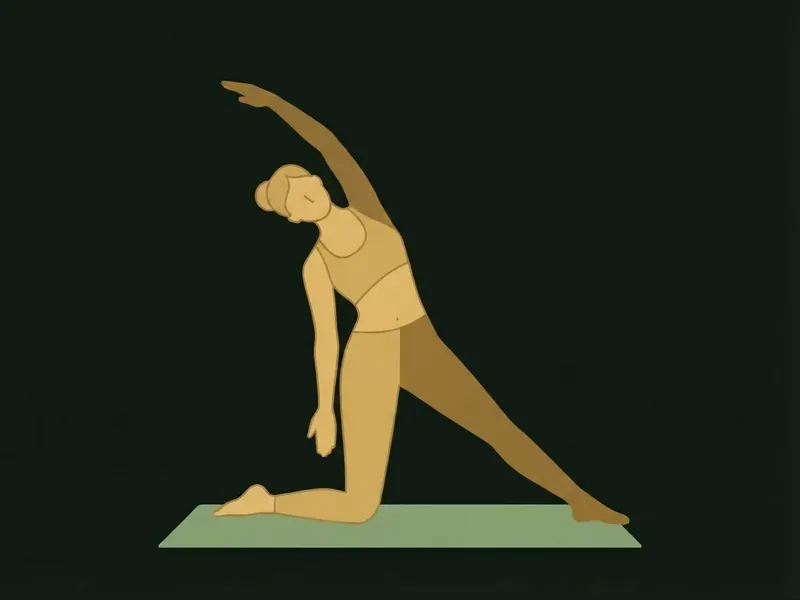
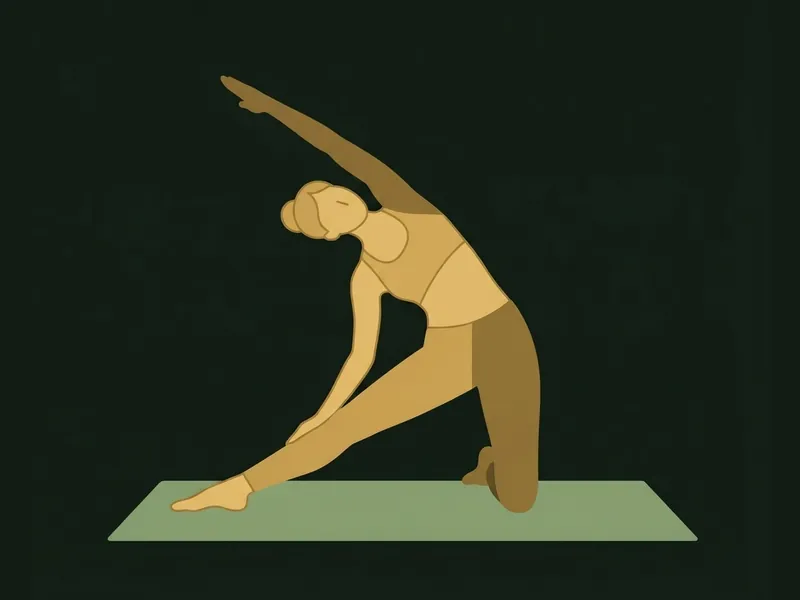
Yoga: las 118 posturas ya tienen su ilustracion (#133)
Ultima tanda de Camila, mas las que estaban repetidas en la carpeta: se
convierten a webp 800x600 y se borran los originales. La estocada baja pasa
a ser la version con los brazos arriba, que es lo que dicen sus
instrucciones.

Changed region(s): [[0.125, 0.21, 0.875, 0.93], [0.2812, 0.12, 0.375, 0.21]]

diff --git a/components/yoga/FiguraYoga.tsx b/components/yoga/FiguraYoga.tsx
@@ -926,25 +926,32 @@ const CON_IMAGEN = new Set<string>([
   "cara_vaca",
   "chaturanga",
   "cobra",
+  "cocodrilo",
   "cuadrupedia",
+  "cuatro_de_pie",
   "cuatro_supina",
   "cuello_lateral",
   "cuervo",
   "delfin",
+  "diosa",
   "doble_paloma",
   "equilibrio_silla",
   "esfinge",
   "estocada_alta",
   "estocada_baja",
+  "estocada_lateral",
   "estocada_torsion",
+  "foca",
   "gato",
   "gato_equilibrio",
   "guerrero1",
   "guerrero2",
   "guerrero3",
+  "guerrero_humilde",
   "guerrero_invertido",
   "guirnalda",
   "heroe",
+  "hombros_pared",
   "lagartija",
   "langosta",
   "luna_de_pie",
@@ -953,7 +960,9 @@ const CON_IMAGEN = new Set<string>([
   "marichi",
   "mariposa",
   "media_luna",
+  "media_luna_torsion",
   "media_pinza",
+  "media_rana",
   "media_split",
   "mesa_invertida",
   "montana",
@@ -967,7 +976,9 @@ const CON_IMAGEN = new Set<string>([
   "perro_tres_patas",
   "pez",
   "pez_apoyado",
+  "pierna_costado",
   "piernas_abiertas_pie",
+  "piernas_abiertas_torsion",
   "piernas_pared",
   "pinza_de_pie",
   "pinza_sentada",
@@ -994,11 +1005,15 @@ const CON_IMAGEN = new Set<string>([
   "supina_pierna_estirada",
   "supina_rodillas",
   "talones",
+  "torsion_apoyada",
+  "torsion_cuatro",
   "torsion_facil",
   "torsion_hombros",
   "torsion_sentada",
   "torsion_supina",
+  "torsion_supina_piernas",
   "triangulo",
+  "triangulo_torsion",
   "vaca",
   "vela_hombros",
   "venado",
